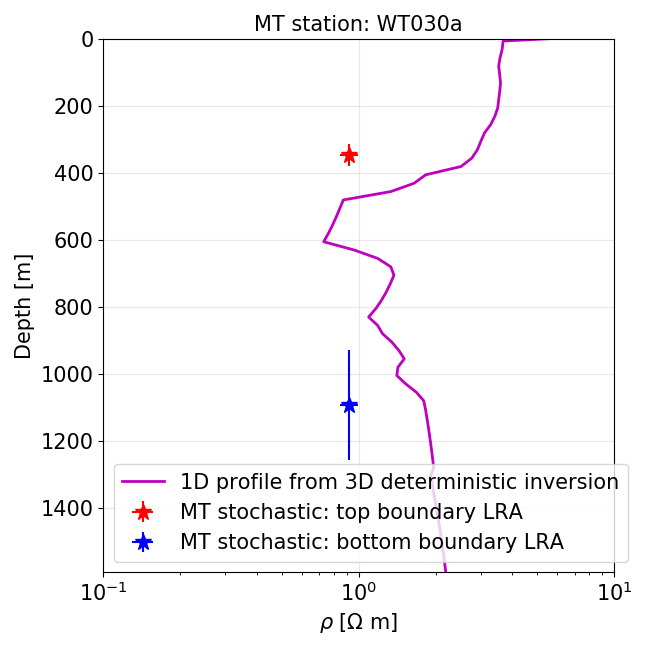
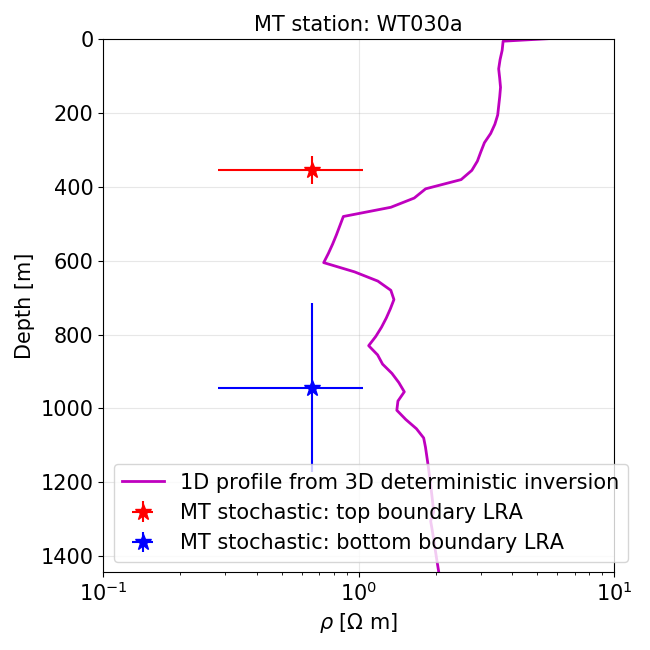
plot uncertain bounds, corner plot and walkers

diff --git a/Maping_functions.py b/Maping_functions.py
@@ -265,12 +265,12 @@ def plot_2D_uncert_bound_cc_mult_env(sta_objects, type_coord = None, unit_dist =
         x_axis = x_axis/1e3
     
     ## plot envelopes 5% and 95% for cc boundaries
-    f = plt.figure(figsize=[8.5,5.5])
+    f = plt.figure(figsize=[9.5,6.5])
     ax = plt.axes([0.18,0.25,0.70,0.50])
     # plot meadian and topo
     ax.plot(x_axis, topo,'g-', label='Topography')
-    ax.plot(x_axis, z1_med,'r.-', label='$z_1$ estimated')
-    ax.plot(x_axis, z2_med,'b.-', label='$z_2$ estimated')
+    ax.plot(x_axis, z1_med,'r.-', label='$z_1$ estimated MT', zorder = 0)
+    ax.plot(x_axis, z2_med,'b.-', label='$z_2$ estimated MT', zorder = 0)
     if no_plot_clay_infered:
         pass
     else: # plot orange section between means of z1 and z2 (indicating clay cap)
@@ -398,22 +398,24 @@ def plot_2D_uncert_bound_cc_mult_env(sta_objects, type_coord = None, unit_dist =
                     dist_wl_prof = dist
 
             # plot well names and distance to the profile (near station) 
-            ax.text(x_axis_wl[i], topo_wl[i]-0.9e3, wl.name+': '+str(round(dist_wl_prof,1))+' km', rotation=90, size=6, bbox=dict(facecolor='blue', alpha=0.1)) 
+            ax.text(x_axis_wl[i], topo_wl[i]-1.0e3, wl.name+': '+str(round(dist_wl_prof,1))+' km', rotation=90, size=7, bbox=dict(facecolor='blue', alpha=0.1)) 
             # import and plot MeB mcmc result
             wl.read_meb_mcmc_results()
             ## vectors for plotting 
             top = wl.elev # elevation os the well
             x = x_axis_wl[i]
             # plot top bound. C
-            y = top - wl.meb_z1_pars[0] # [z1_mean_prior, z1_std_prior]
-            e = wl.meb_z1_pars[1] # [z1_mean_prior, z1_std_prior]
-            ax.errorbar(x, y, e, color='lime',linestyle='--',zorder=3, marker='_')
+            y1 = top - wl.meb_z1_pars[0] # [z1_mean_prior, z1_std_prior]
+            e1 = wl.meb_z1_pars[1] # [z1_mean_prior, z1_std_prior]
+            ax.errorbar(x, y1, e1, color='cyan',linestyle='-',zorder=3, marker='_')
             # plot bottom bound. CC
-            y = top - wl.meb_z2_pars[0] # [z1_mean_prior, z1_std_prior]
-            e = 2.*wl.meb_z2_pars[1] # [z1_mean_prior, z1_std_prior] # 2 time std (66%)
-            ax.errorbar(x, y, e, color='cyan', linestyle='--',zorder=3, marker='_')
+            y2 = top - wl.meb_z2_pars[0] # [z1_mean_prior, z1_std_prior]
+            e2 = 2.*wl.meb_z2_pars[1] # [z1_mean_prior, z1_std_prior] # 2 time std (66%)
+            ax.errorbar(x, y2, e2, color='m', linestyle='-',zorder=2, marker='_')
             i+=1
-    
+        ax.errorbar(x, y1, e1, color='cyan',linestyle='-',zorder=3, marker='_', label = '$z_1$ estimated MeB')
+        ax.errorbar(x, y2, e2, color='m', linestyle='-',zorder=3, marker='_', label = '$z_2$ estimated MeB')
+
     if xlim:
         ax.set_xlim([xlim[0], xlim[1]])
     else:
@@ -422,7 +424,7 @@ def plot_2D_uncert_bound_cc_mult_env(sta_objects, type_coord = None, unit_dist =
         if ylim:
             ax.set_ylim([ylim[0], ylim[1]])
         else:
-            ax.set_ylim([-1.0e3, max(topo)+600.])
+            ax.set_ylim([-1.5e3, max(topo)+600.])
     else:
         if ylim:
             ax.set_ylim([ylim[0], ylim[1]])
@@ -830,7 +832,7 @@ def triangulation_meb_results(station_objects, well_objects, path_base_image = N
     plt.clf()
 
 def map_stations_wells(station_objects, wells_objects, file_name = None, format = None, \
-    path_base_image = None, ext_img = None, xlim = None, ylim = None):
+    path_base_image = None, alpha_img = None, ext_img = None, xlim = None, ylim = None, dash_arrow = None):
     
     if file_name is None:
         f_name = 'map_stations_wells'
@@ -842,6 +844,10 @@ def map_stations_wells(station_objects, wells_objects, file_name = None, format 
         raise 'ext_img not given'
     else:
         ext = ext_img
+    if alpha_img is None:
+        alpha_img = 1.0
+    else:
+        alpha_img = alpha_img
 
     # sort stations and wells by longitud (for plotting)
     station_objects.sort(key=lambda x: x.lon_dec, reverse=False)
@@ -867,28 +873,37 @@ def map_stations_wells(station_objects, wells_objects, file_name = None, format 
     f = plt.figure(figsize=[12.5,10.5])
     ax = plt.axes([0.18,0.25,0.70,0.50])
     img=mpimg.imread(path_base_image)
-    ax.imshow(img, extent = ext)
+    ax.imshow(img, extent = ext, alpha = alpha_img)
 
-    plt.plot(lon_stas, lat_stas, 'r*', label = 'MT station', ms = 9, zorder=2, markeredgecolor= 'w')
+    # stations
+    plt.plot(lon_stas, lat_stas, 'b*', label = 'MT station', ms = 9, zorder=2, markeredgecolor= 'w')
     for i, sta in enumerate(station_objects):
         #plt.text(sta.lon_dec, sta.lat_dec, str(i), color = 'w', fontsize=textsize, ha = 'center', va = 'center',zorder=3)
         ax.annotate(sta.name[:-4], xy=(sta.lon_dec, sta.lat_dec),  xycoords='data',
             xytext=(1.1, 1.0 - i/12), textcoords='axes fraction',
-            size=textsize,arrowprops=dict(arrowstyle = '-', facecolor='red', edgecolor = 'red'),
+            size=textsize,arrowprops=dict(arrowstyle = '-', facecolor='b', edgecolor = 'b'),
             horizontalalignment='left', verticalalignment='top',
             bbox=dict(boxstyle="Round", fc="w"), zorder=1)
     
-    plt.plot(lon_wls, lat_wls, 'c*', label = 'MeB well', ms = 9, zorder=1, markeredgecolor= 'w')
     # wells
+    plt.plot(lon_wls, lat_wls, 'r*', label = 'MeB well', ms = 9, zorder=1, markeredgecolor= 'w')
     import string
     alpha = list(string.ascii_lowercase)
     for i, wl in enumerate(wells_objects):
         #plt.text(wl.lon_dec, wl.lat_dec, alpha[i], color = 'k', fontsize=textsize, ha = 'center', va = 'center')
         ax.annotate(wl.name, xy=(wl.lon_dec, wl.lat_dec),  xycoords='data', #alpha[i]
             xytext=(0.25, 0.6 - i/10), textcoords='axes fraction',
-            size=textsize,arrowprops=dict(arrowstyle = '-', facecolor='cyan', edgecolor = 'cyan'),
+            size=textsize,arrowprops=dict(arrowstyle = '-', facecolor='r', edgecolor = 'r'),
             horizontalalignment='right', verticalalignment='bottom',
             bbox=dict(boxstyle="Round", fc="w"), zorder=1)
+        if dash_arrow:
+            ax.annotate(wl.name, xy=(wl.lon_dec, wl.lat_dec),  xycoords='data', #alpha[i]
+                xytext=(0.25, 0.6 - i/10), textcoords='axes fraction',
+                size=textsize,arrowprops=dict(arrowstyle = '-', ls= 'dashed'),
+                horizontalalignment='right', verticalalignment='bottom',
+                bbox=dict(boxstyle="Round", fc="w"), zorder=1)
+    
+    
     ax.legend(loc=1, prop={'size': textsize})	
     ax.set_xlabel('latitude [°]', size = textsize)
     ax.set_ylabel('longitude [°]', size = textsize)

diff --git a/main.py b/main.py
@@ -65,8 +65,8 @@ if __name__ == "__main__":
 	set_up = True
 	mcmc_meb_inv = False
 	prior_MT_meb_read = True
-	mcmc_MT_inv = False
-	prof_2D_MT = False
+	mcmc_MT_inv = True
+	prof_2D_MT = True
 	surf_3D_MT = False
 	wells_temp_fit = False
 	sta_temp_est = False
@@ -356,6 +356,7 @@ if __name__ == "__main__":
 		# for wl in wells_meb: # loop over the meb wells (objects)
 		# 	f.write(wl+'\n')
 		# f.close()
+
 		## plot MeB curves 
 		# pp = PdfPages('wells_MeB.pdf') # pdf to plot the meb profiles
 		# for wl in wells_objects:
@@ -374,7 +375,7 @@ if __name__ == "__main__":
 			y_lim = [-38.68,-38.58]
 			path_base_image = '.'+os.sep+'base_map_img'+os.sep+'WT_area_gearth_hd.jpg'
 			map_stations_wells(station_objects, wells_objects, file_name = file_name, format = 'png', \
-				path_base_image = path_base_image, xlim = x_lim, ylim = y_lim, ext_img = ext_file)
+				path_base_image = path_base_image, alpha_img = 0.8 ,xlim = x_lim, ylim = y_lim, ext_img = ext_file)
 			
 			# plot over resistivity boundary 
 			file_name = 'map_res_bound_stations_wells'
@@ -383,7 +384,7 @@ if __name__ == "__main__":
 			y_lim = [-38.68,-38.58]
 			path_base_image = '.'+os.sep+'base_map_img'+os.sep+'WT_res_map_gearth.jpg'
 			map_stations_wells(station_objects, wells_objects, file_name = file_name, format = 'png', \
-				path_base_image = path_base_image, xlim = x_lim, ylim = y_lim, ext_img = ext_file)
+				path_base_image = path_base_image, alpha_img = 0.8 ,xlim = x_lim, ylim = y_lim, ext_img = ext_file, dash_arrow = False)
 
 	# (1) Run MCMC for MeB priors  
 	if mcmc_meb_inv:
@@ -457,7 +458,7 @@ if __name__ == "__main__":
 		station_objects.sort(key=lambda x: x.ref, reverse=False)
 		for sta_obj in station_objects:
 			print(sta_obj.name)
-			if sta_obj.ref < 0:
+			if sta_obj.ref < 6:
 		#	if False:
 				pass
 			else: 
@@ -477,11 +478,17 @@ if __name__ == "__main__":
 				## run inversion 
 				mcmc_sta.inv()
 				## plot results (save in .png)
-				mcmc_sta.plot_results_mcmc(corner_plt = True, walker_plt = True)
+				mcmc_sta.plot_results_mcmc(chain_file = 'chain.dat', corner_plt = True, walker_plt = True)
+				shutil.move(mcmc_sta.path_results+os.sep+'corner_plot.png', mcmc_sta.path_results+os.sep+'corner_plot_full.png')
+				shutil.move(mcmc_sta.path_results+os.sep+'walkers.png', mcmc_sta.path_results+os.sep+'walkers_full.png')
 				## sample posterior
 				#mcmc_sta.sample_post()
 				f, g = mcmc_sta.sample_post(idt_sam = True, plot_fit = True, exp_fig = True, plot_model = True) # Figure with fit to be add in pdf (whole station)
 				#mcmc_sta.sample_post(idt_sam = True, plot_fit = True, exp_fig = False, plot_model = True) # Figure with fit to be add in pdf (whole station)
+				## plot results without burn-in section
+				mcmc_sta.plot_results_mcmc(chain_file = 'chain_sample_order.dat', corner_plt = True, walker_plt = False)
+				shutil.move(mcmc_sta.path_results+os.sep+'corner_plot.png', mcmc_sta.path_results+os.sep+'corner_plot_burn.png')
+				
 				pp.savefig(g)
 				pp.savefig(f)
 				plt.close('all')

diff --git a/lib_mcmc_MT_inv.py b/lib_mcmc_MT_inv.py
@@ -511,30 +511,35 @@ class mcmc_inv(object):
 					
         return  # lp_thick_layer1 + lp_rho_layer1 + lp_rho_layer2 + lp_thick_layer2 + lp_rho_hs
 
-    def plot_results_mcmc(self, corner_plt = False, walker_plt = True): 
-        chain = np.genfromtxt(self.path_results+os.sep+'chain.dat')
+    def plot_results_mcmc(self, chain_file = None, corner_plt = False, walker_plt = True): 
+        chain = np.genfromtxt(self.path_results+os.sep+chain_file)
         if corner_plt: 
         # show corner plot
             weights = chain[:,-1]
             weights -= np.max(weights)
             weights = np.exp(weights)
-            labels = ['thick. 1','thick. 2','rest. 1','rest. 2','rest. hs']
-            fig = corner.corner(chain[:,2:-1], labels=labels, weights=weights, smooth=1, bins=30)
+            labels = ['$z_1$','$z_2$',r'$\rho_1$',r'$\rho_2$',r'$\rho_3$']
+            fig = corner.corner(chain[:,2:-1], labels=labels, weights=weights, smooth=1, bins=30, label_kwargs=dict(fontsize= textsize))
+            #ax.tick_params(axis='both', labelsize=textsize)
             plt.savefig(self.path_results+os.sep+'corner_plot.png', dpi=300, facecolor='w', edgecolor='w',
                 orientation='portrait', format='png',transparent=True, bbox_inches=None, pad_inches=0.1)
             #plt.close(fig)
         if walker_plt:
-            labels = ['thick. 1','thick. 2','rest. 1','rest. 2','rest. hs']
+            labels = ['$z_1$','$z_2$',r'$\rho_1$',r'$\rho_2$',r'$\rho_3$']
             npar = int(chain.shape[1] - 3)
             f,axs = plt.subplots(npar,1)
             f.set_size_inches([8,8])
             for i,ax,label in zip(range(npar),axs,labels):
-            	for j in np.unique(chain[:,0]):
-            		ind = np.where(chain[:,0] == j)
-            		it = chain[ind,1]
-            		par = chain[ind,2+i]
-            		ax.plot(it[0],par[0],'k-')
-            	ax.set_ylabel(label)
+                for j in np.unique(chain[:,0]):
+                    ind = np.where(chain[:,0] == j)
+                    it = chain[ind,1]
+                    par = chain[ind,2+i]
+                    ax.plot(it[0],par[0],'k-')
+                ax.set_ylabel(label, size = textsize)
+                ax.tick_params(axis='both', labelsize=textsize)
+                ax.set_xticklabels([])
+            ax.set_xticklabels(np.arange(-250,2250,250))
+            plt.tight_layout()
             plt.savefig(self.path_results+os.sep+'walkers.png', dpi=300)
         chain = None
         plt.close('all')
